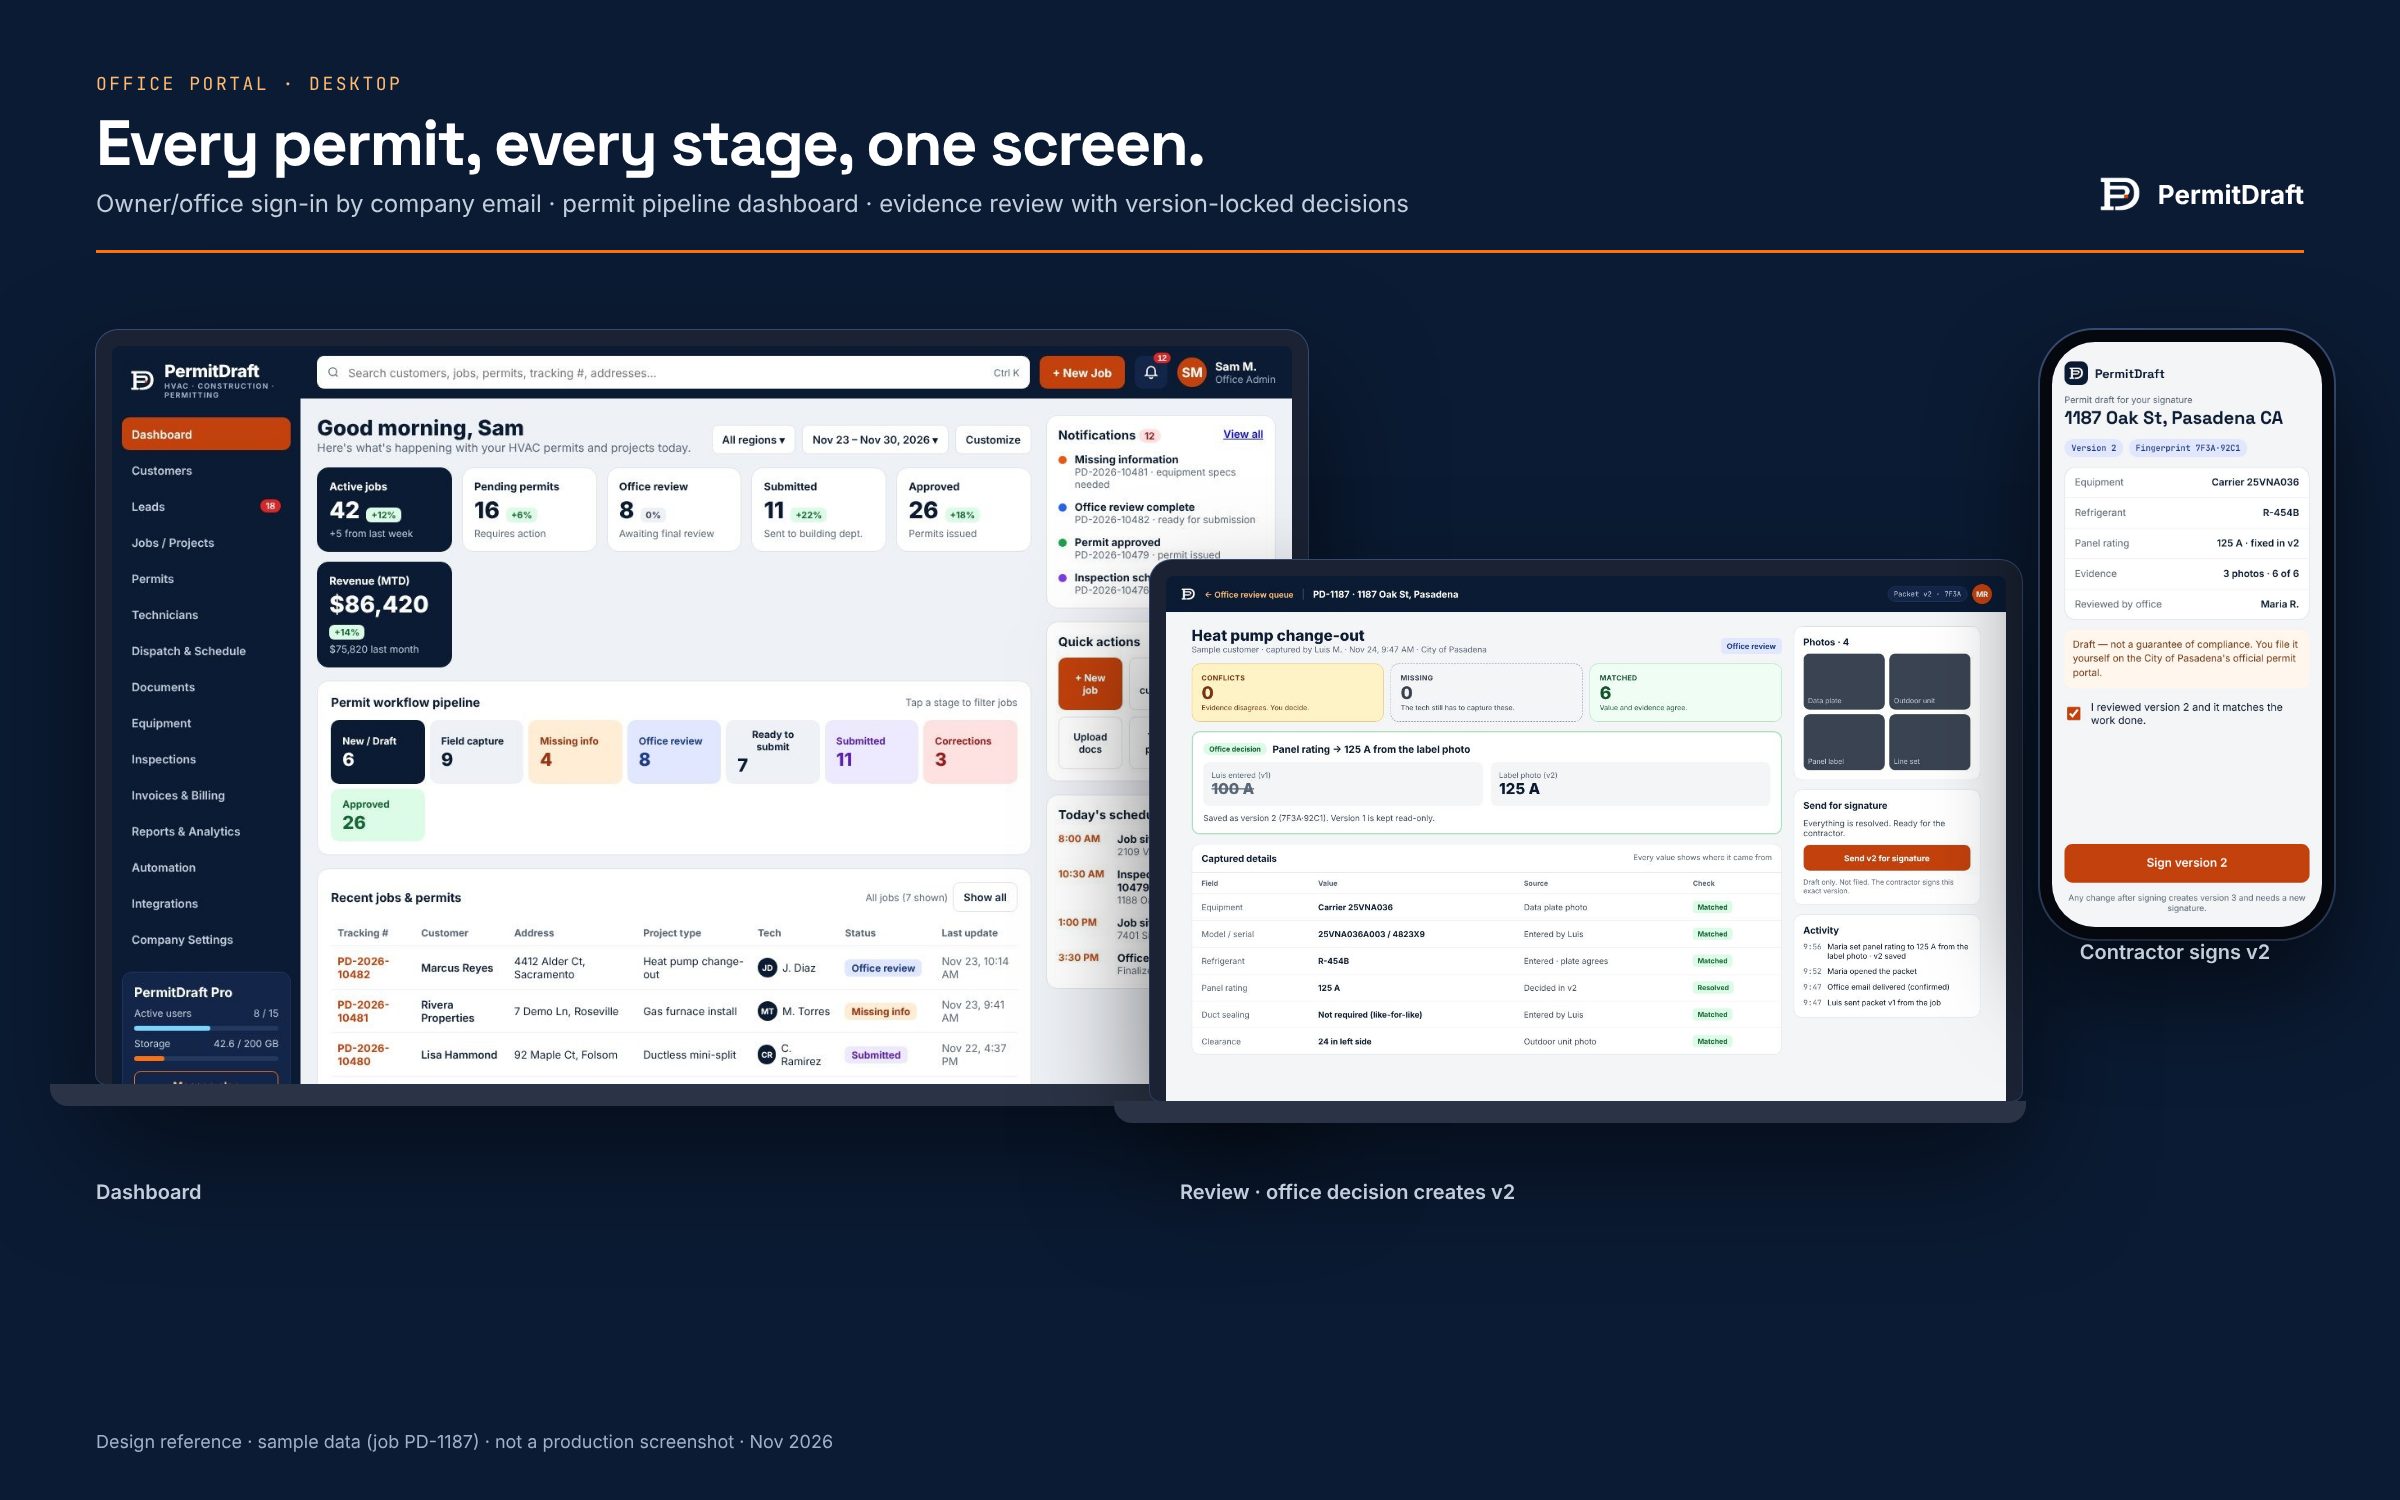
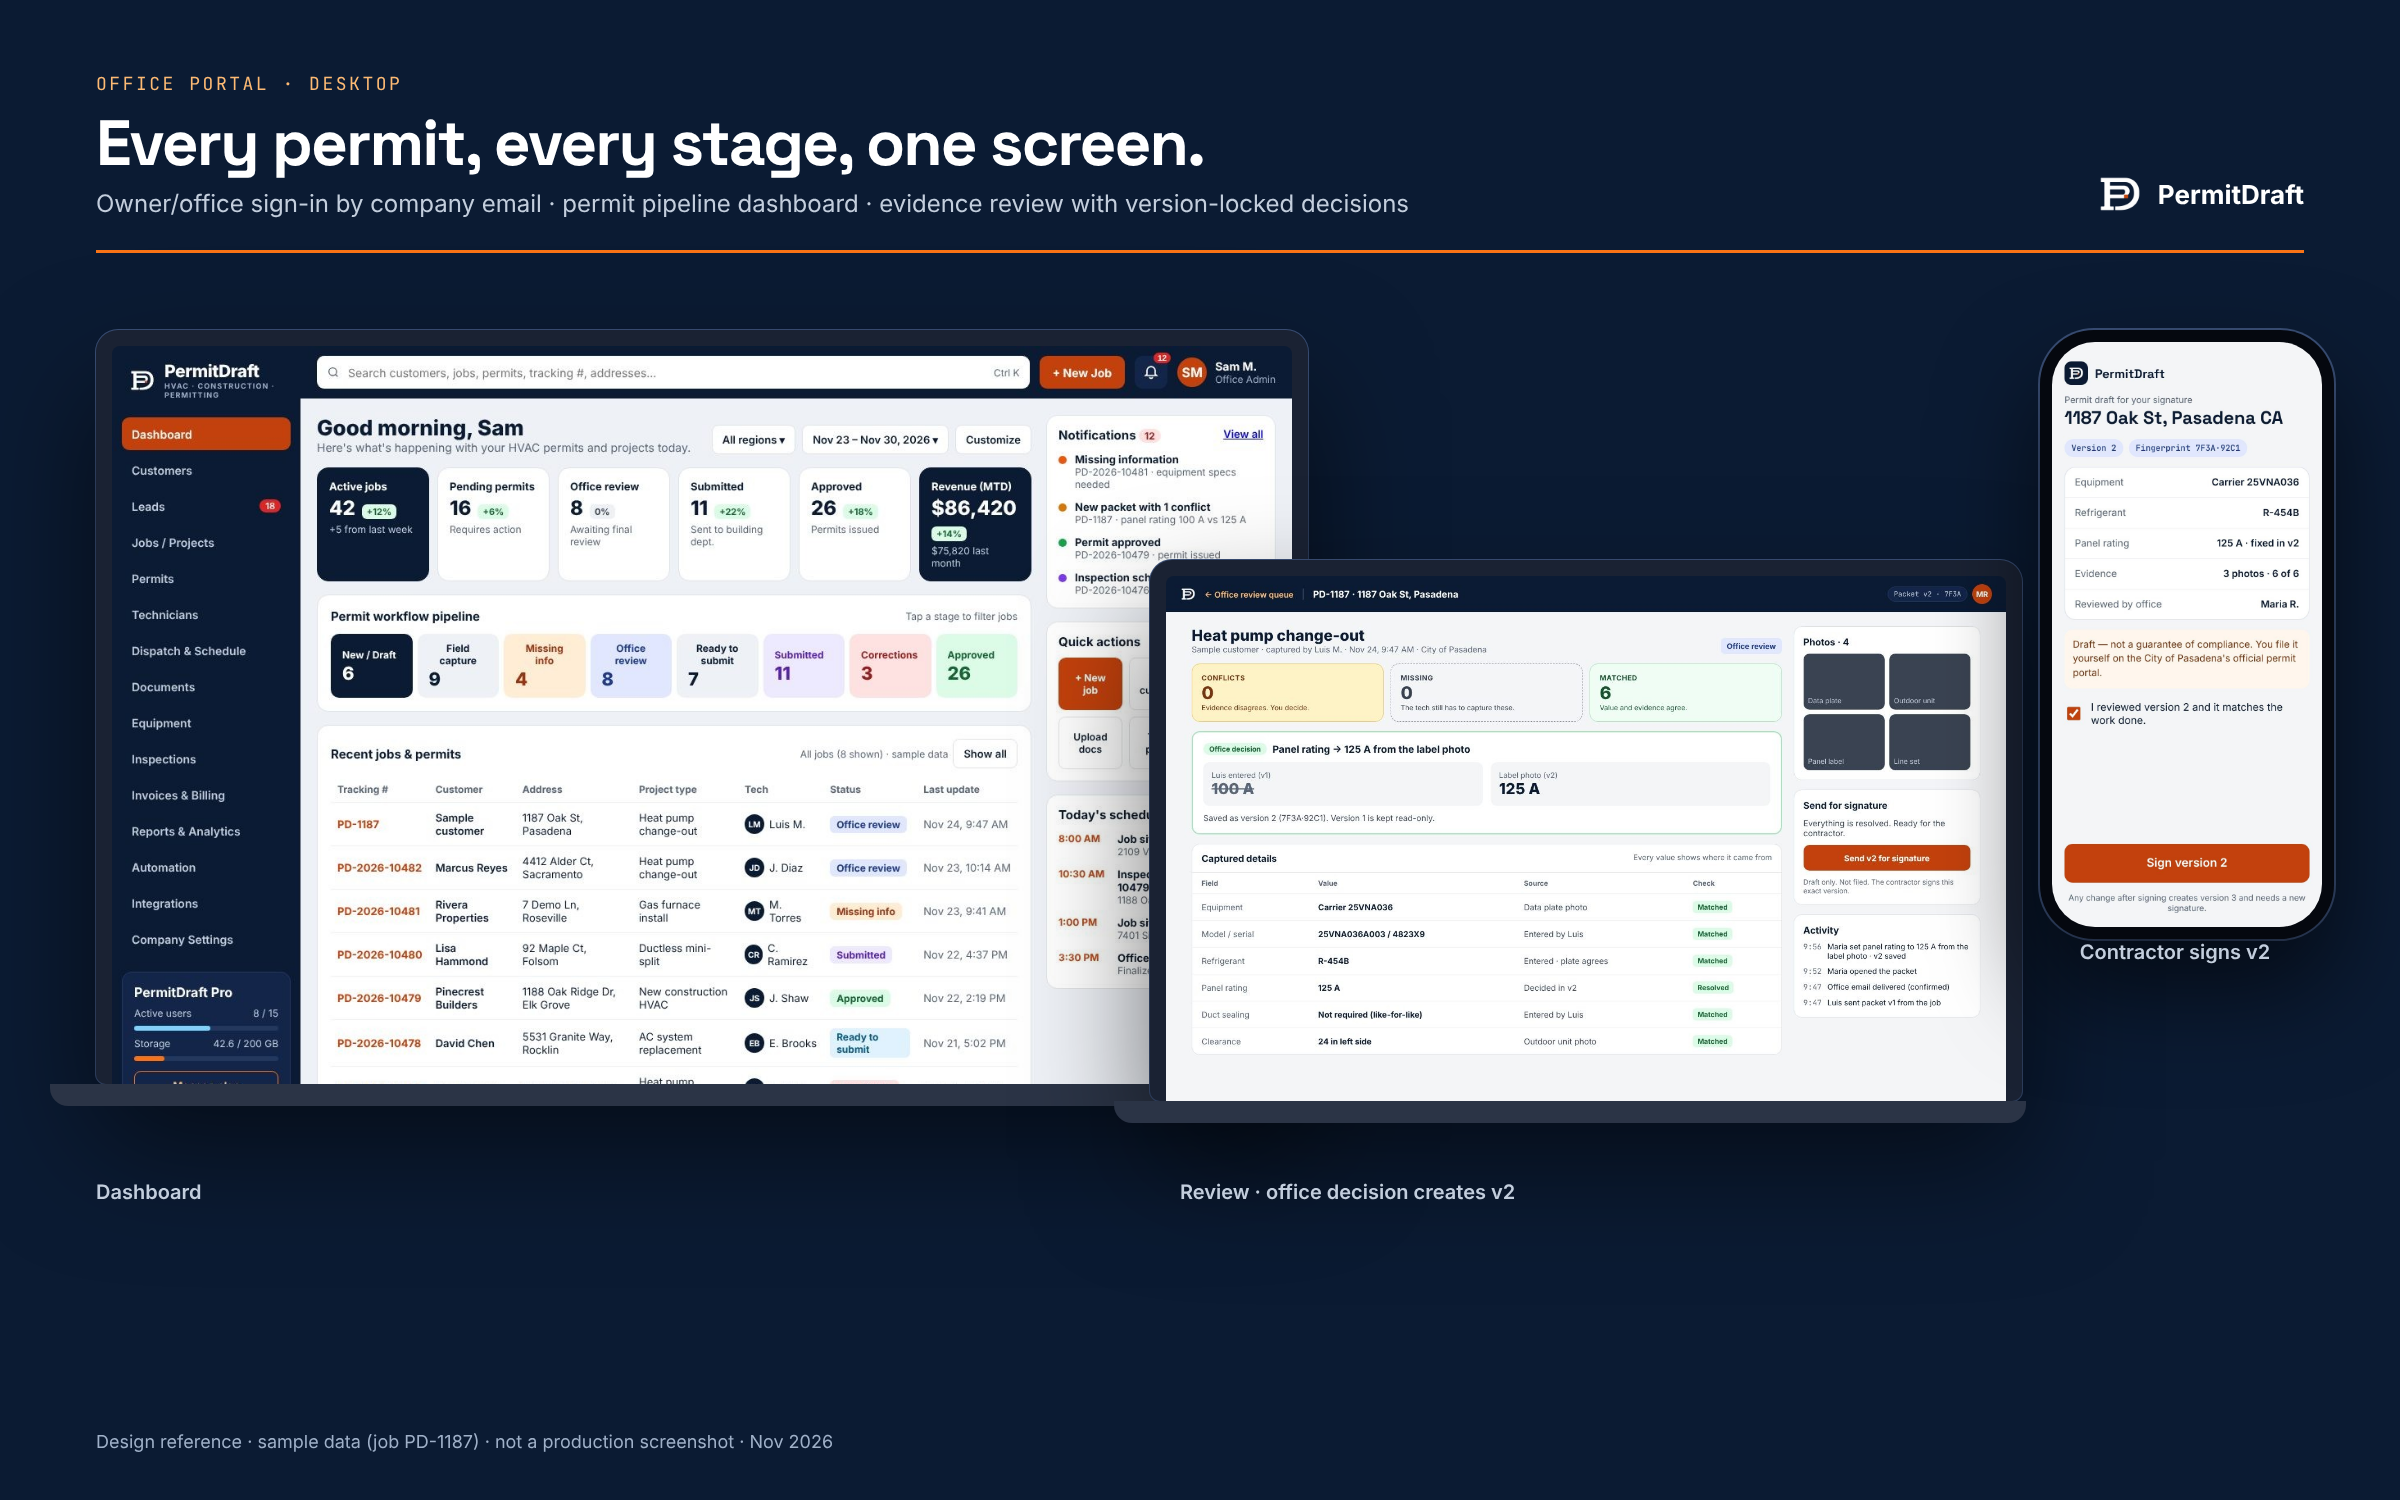
Office dashboard: desktop-first layout at >=1200px (6 KPIs, 8 stages in one row)
Claude-Session: https://claude.ai/code/session_01Q4SFfZdAQ2PeUcG99Xwb29

Changed region(s): [[0.125, 0.3067, 0.5, 0.736]]

diff --git a/docs/design/mockups/OfficeDashboard.dc.html b/docs/design/mockups/OfficeDashboard.dc.html
@@ -23,6 +23,7 @@ h1,h2,h3,p{margin:0}
 .mnav{display:none!important}
 button:focus-visible,a:focus-visible,input:focus-visible{outline:3px solid #C2410C;outline-offset:2px}
 .side a:focus-visible,header button:focus-visible{outline-color:#F97316}
+@media (min-width:1200px){.kpis{grid-template-columns:repeat(6,minmax(0,1fr))!important;gap:10px!important}.pipe{grid-template-columns:repeat(8,minmax(0,1fr))!important}.rail{flex:0 0 280px!important}.kv{font-size:24px!important;white-space:nowrap}.btm{grid-template-columns:repeat(2,minmax(0,1fr))!important}}
 @media (max-width:900px){.side{display:none!important}.mnav{display:flex!important}.pad{padding:14px!important}}
 </style>
 </helmet>
@@ -67,11 +68,11 @@ button:focus-visible,a:focus-visible,input:focus-visible{outline:3px solid #C241
 <div style="display: flex; gap: 8px; flex-wrap: wrap"><button type="button" class="gb">All regions ▾</button><button type="button" class="gb">Nov 23 – Nov 30, 2026 ▾</button><button type="button" class="gb">Customize</button></div>
 </div>
 
-<div style="display: grid; grid-template-columns: repeat(auto-fit, minmax(150px, 1fr)); gap: 12px">
+<div class="kpis" style="display: grid; grid-template-columns: repeat(auto-fit, minmax(150px, 1fr)); gap: 12px">
 <sc-for list="{{ kpis }}" as="k" hint-placeholder-count="6">
 <div style="{{ k.box }}">
 <p style="{{ k.lab }}">{{ k.label }}</p>
-<div style="display: flex; align-items: baseline; gap: 8px; flex-wrap: wrap"><p style="{{ k.num }}">{{ k.value }}</p><span style="{{ k.trendStyle }}">{{ k.trend }}</span></div>
+<div style="display: flex; align-items: baseline; gap: 8px; flex-wrap: wrap"><p class="kv" style="{{ k.num }}">{{ k.value }}</p><span style="{{ k.trendStyle }}">{{ k.trend }}</span></div>
 <p style="{{ k.subStyle }}">{{ k.sub }}</p>
 </div>
 </sc-for>
@@ -79,7 +80,7 @@ button:focus-visible,a:focus-visible,input:focus-visible{outline:3px solid #C241
 
 <section class="cd" style="padding: 16px; display: flex; flex-direction: column; gap: 12px">
 <div style="display: flex; justify-content: space-between; align-items: center"><h2 class="h">Permit workflow pipeline</h2><span class="m">Tap a stage to filter jobs</span></div>
-<div style="display: grid; grid-template-columns: repeat(auto-fit, minmax(100px, 1fr)); gap: 6px">
+<div class="pipe" style="display: grid; grid-template-columns: repeat(auto-fit, minmax(100px, 1fr)); gap: 6px">
 <sc-for list="{{ stages }}" as="s" hint-placeholder-count="8">
 <button type="button" onClick="{{ s.pick }}" style="{{ s.style }}"><span style="font-size: 12px; font-weight: 700">{{ s.label }}</span><span style="font-size: 22px; font-weight: 800">{{ s.count }}</span></button>
 </sc-for>
@@ -97,13 +98,13 @@ button:focus-visible,a:focus-visible,input:focus-visible{outline:3px solid #C241
 <tbody>
 <sc-for list="{{ rows }}" as="r" hint-placeholder-count="5">
 <tr style="border-top: 1px solid #EEF1F5">
-<td style="padding: 10px 8px; color: #C2410C; font-weight: 700">{{ r.id }}</td>
+<td style="padding: 10px 8px; color: #C2410C; font-weight: 700; white-space: nowrap">{{ r.id }}</td>
 <td style="padding: 10px 8px; font-weight: 600">{{ r.cust }}</td>
 <td style="padding: 10px 8px">{{ r.addr }}</td>
 <td style="padding: 10px 8px">{{ r.type }}</td>
 <td style="padding: 10px 8px"><span style="display: inline-flex; align-items: center; gap: 6px"><span style="width: 24px; height: 24px; border-radius: 99px; background: #0B1B33; color: #fff; font-size: 10px; font-weight: 700; display: inline-flex; align-items: center; justify-content: center">{{ r.ini }}</span>{{ r.tech }}</span></td>
 <td style="padding: 10px 8px"><span style="{{ r.pill }}">{{ r.status }}</span></td>
-<td style="padding: 10px 8px; color: #5A6779">{{ r.when }}</td>
+<td style="padding: 10px 8px; color: #5A6779; white-space: nowrap">{{ r.when }}</td>
 </tr>
 </sc-for>
 </tbody>
@@ -111,7 +112,7 @@ button:focus-visible,a:focus-visible,input:focus-visible{outline:3px solid #C241
 </div>
 </section>
 
-<div style="display: grid; grid-template-columns: repeat(auto-fit, minmax(240px, 1fr)); gap: 12px">
+<div class="btm" style="display: grid; grid-template-columns: repeat(auto-fit, minmax(240px, 1fr)); gap: 12px">
 <section class="cd" style="padding: 14px; display: flex; flex-direction: column; gap: 10px">
 <h2 class="h">Technician dispatch</h2>
 <sc-for list="{{ techs }}" as="t" hint-placeholder-count="4">
@@ -156,7 +157,7 @@ button:focus-visible,a:focus-visible,input:focus-visible{outline:3px solid #C241
 </div>
 </main>
 
-<aside style="flex: 1 1 280px; min-width: 0; display: flex; flex-direction: column; gap: 16px">
+<aside class="rail" style="flex: 1 1 280px; min-width: 0; display: flex; flex-direction: column; gap: 16px">
 <section class="cd" style="padding: 14px; display: flex; flex-direction: column; gap: 12px">
 <div style="display: flex; justify-content: space-between"><h2 class="h">Notifications <span style="background: #FEE2E2; color: #991B1B; border-radius: 99px; padding: 1px 7px; font-size: 12px">12</span></h2><a href="#" style="font-size: 13px; font-weight: 600">View all</a></div>
 <sc-for list="{{ notes }}" as="n" hint-placeholder-count="4">

diff --git a/docs/design/SCREENS.md b/docs/design/SCREENS.md
@@ -78,6 +78,15 @@ These aren't built yet (see the Round 3 table in `review/claude-notes.md`). Soft
 - Only company admins and office reviewers can sign in here.
 
 ### B2. Dashboard (`OfficeDashboard.dc.html`)
+> **Desktop-first (Sam: critical).** The office portal is designed for desktop. At **≥ 1200 px** it must use the desktop layout:
+> - the fixed 230 px navy sidebar
+> - **6 KPI cards in one row**
+> - **8 pipeline tiles in one row**
+> - the full jobs table, with tracking numbers and dates on one line
+> - a 2×2 grid of bottom cards
+> - a fixed 280 px right rail
+>
+> Reference widths are 1440 (primary), 1280 and 1920. Smaller layouts (tablet, phone) are fallbacks only, and they must never change the desktop composition.
 - **Sidebar (navy 900, 230 wide):**
   - Logo at the top.
   - Navigation: Dashboard (active: Orange 700 fill) · Customers · Leads (red count badge) · Jobs / Projects · Permits · Technicians · Dispatch & Schedule · Documents · Equipment · Inspections · Invoices & Billing · Reports & Analytics · Automation · Integrations · Company Settings.

diff --git a/docs/design/review/claude-notes.md b/docs/design/review/claude-notes.md
@@ -1,5 +1,15 @@
 # Claude design notes
 
+## Round 10b — Nov 24, 2026, 2:35 PM PT
+Sam: the desktop office portal must be configured **for desktop, not mobile**, which is critical. The dashboard now locks to a true desktop layout at ≥ 1200 px:
+- 6 KPI cards in one row, at 24 px so "$86,420" fits
+- 8 pipeline tiles in one row
+- tracking numbers and dates that don't wrap
+- bottom cards in a 2×2 grid
+- a fixed 280 px right rail
+
+It's verified at 1280, 1440 and 1920 (`renders/round10/`). The tablet and phone layouts stay as fallbacks only. `SCREENS.md` B2 now states the desktop-first rule. Board 2 is refreshed.
+
 ## Round 10 — Nov 24, 2026, 2:25 PM PT (4 PM milestone, shipped early)
 **The office dashboard is responsive.**
 - Below 900 px the sidebar collapses into a top bar with the logo and a **Menu** button. Below that, the KPI cards are 2 across on a phone, the pipeline tiles wrap, the jobs table scrolls sideways, and the right rail stacks under the main content.
